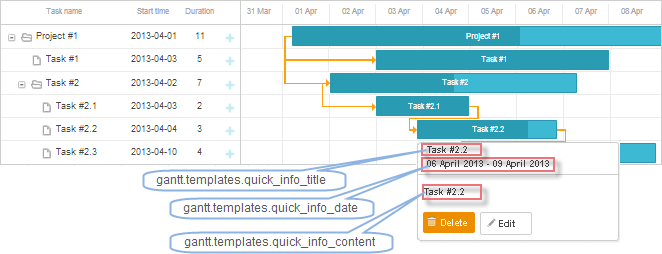
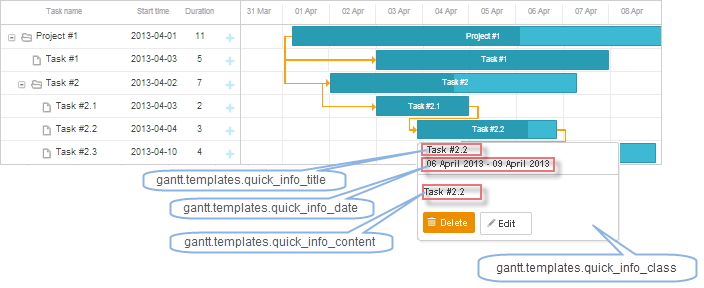
[fix] small corections in docs

diff --git a/data/desktop/multiple_gantts.md b/data/desktop/multiple_gantts.md
@@ -1,23 +1,20 @@
-Creating Multiple Charts on the Page
+Creating Multiple Charts on a Page
 ===================================================
 
 {{note
-This functionality included only in Gantt PRO ( Enterprise license ) 
+This functionality is available in the Gantt PRO edition (Enterprise license) only. 
 }}
 
-Basically, dhtmlxGantt is a static object and the default instance of it continually exists on the page -  at any time  you may access the global **gantt** object. But you can also create new gantt object if needed.
-
+Basically, dhtmlxGantt is a static object and the default instance of it continually exists on the page - you may access it via the global **gantt** object at any time. But you can also create new gantt object if needed.
 
 To create a new instance of dhtmlxGantt, use the following command:
 
 ~~~js
 //Beware, "Gantt" in the command goes with the capital letter
 [instanceName] = Gantt.getGanttInstance();
-
 ~~~
 
-
-And then configure, initialize and populate with data your new instance, as usual.
+And then configure  your new instance, initialize it and populate with data, as usual.
 
 Let's take a simple example: 2 Gantt charts, one under another: 
 
@@ -32,10 +29,7 @@ function init() {
 	gantt2.init("gantt_here_2");
 	gantt2.parse(tasksB);	
 }
-
 ~~~
-
-
 
 ~~~js
 <body onload="init();">
@@ -47,20 +41,16 @@ function init() {
 		...
 	</div>	
 </body>
-
 ~~~
 
 
 ##Integration with dhtmlxLayout
-A good way to place multiple Gantt charts on the page is using [dhtmlxLayout](http://docs.dhtmlx.com/doku.php?id=dhtmlxlayout:toc). It not only provides a beautiful frame, but also ensures correct interacting with other elements on the page and 
-acting according to the page size changes. 
 
-**To attach a dhtmlxGantt instance to a layout cell**, use method **attachGantt()**.
-  
+A good way to place multiple Gantt charts on the page is using [dhtmlxLayout](http://docs.dhtmlx.com/doku.php?id=dhtmlxlayout:toc). It not only provides a beautiful frame, but also ensures correct interacting with other elements on the page and acting according to the page size changes. 
+
+**To attach a dhtmlxGantt instance to a layout cell**, use the **attachGantt()**  method.
   
 **Note**, attaching dhtmlxGantt to a cell automatically initializes it. So, configure dhtmlxGantt instance before placing it into the layout.
-
-
 
 ~~~js
 function init() {
@@ -78,7 +68,6 @@ function init() {
 	dhxLayout.cells("b").attachGantt(null, null, gantt2);/*!*/
 	gantt2.parse(tasksB);
 }
-
 ~~~
 
 @edition: pro

diff --git a/data/api/gantt_quick_info_class_template.md b/data/api/gantt_quick_info_class_template.md
@@ -4,9 +4,9 @@ quick_info_class
 @short:specifies the CSS class that will be applied to  the pop-up edit form
 
 @params: 
-- start	Date	the date when a task is scheduled to begin
-- end	Date	the date when a task is scheduled to be completed
-- task	object	the task object
+- start		Date		the date when a task is scheduled to begin
+- end		Date		the date when a task is scheduled to be completed
+- task		object		the task object
 
 
 @example:
@@ -17,4 +17,5 @@ gantt.templates.quick_info_class = function(start, end, task){
 @template:	api_template
 @descr:
 
-
+@related:
+desktop/touch_templates.md

diff --git a/data/api/gantt_columns_config.md b/data/api/gantt_columns_config.md
@@ -5,7 +5,7 @@ columns
 
 @type: array
 @example:
-//default columns definition
+// default columns definition
 gantt.config.columns=[
 	{name:"text", 		label:"Task name", 	tree:true, width:'*' },
 	{name:"start_date", label:"Start time", align: "center" },
